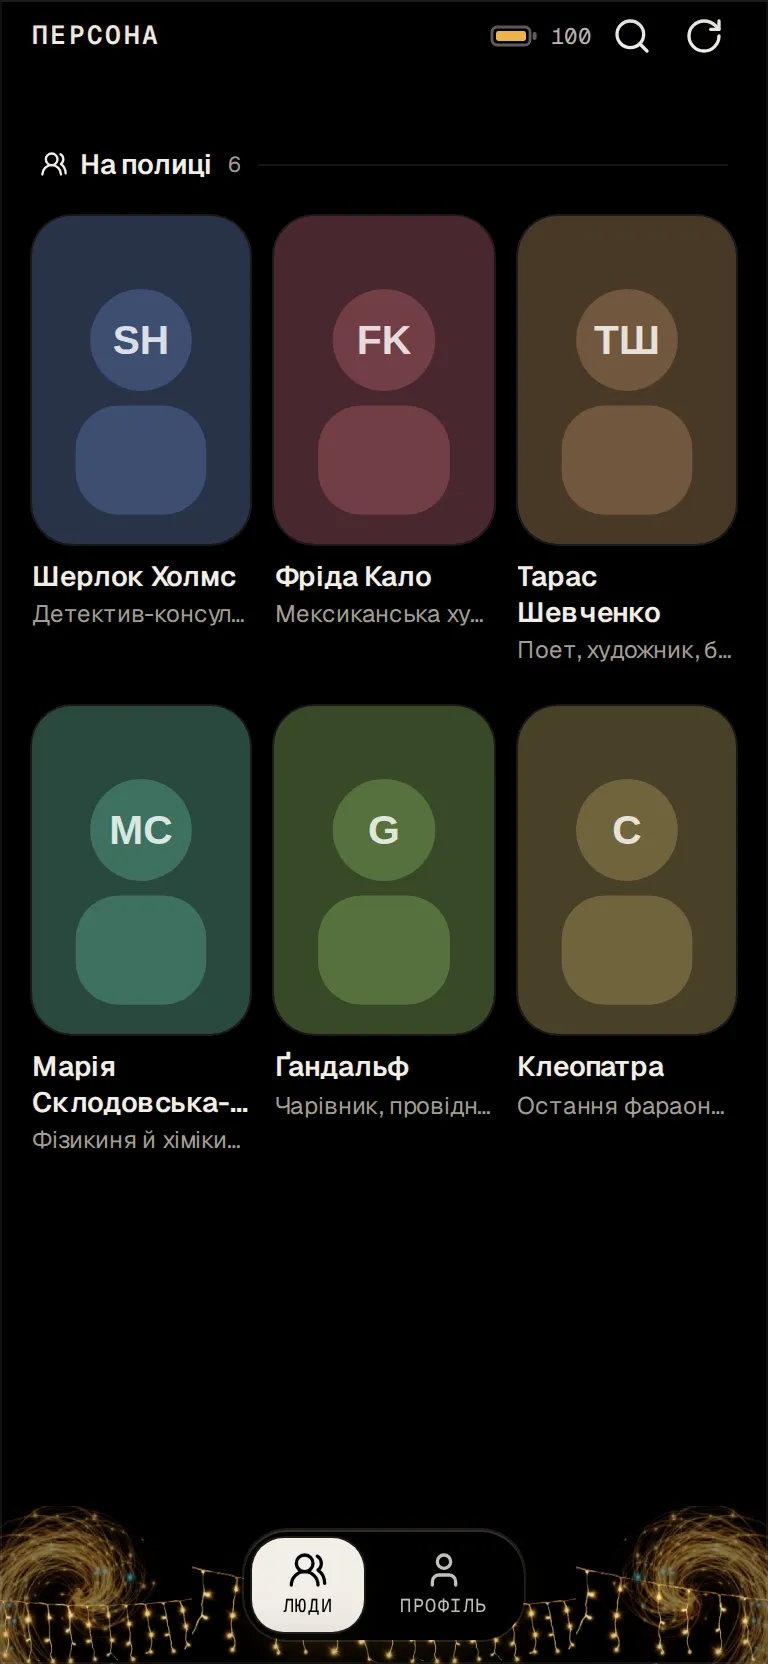
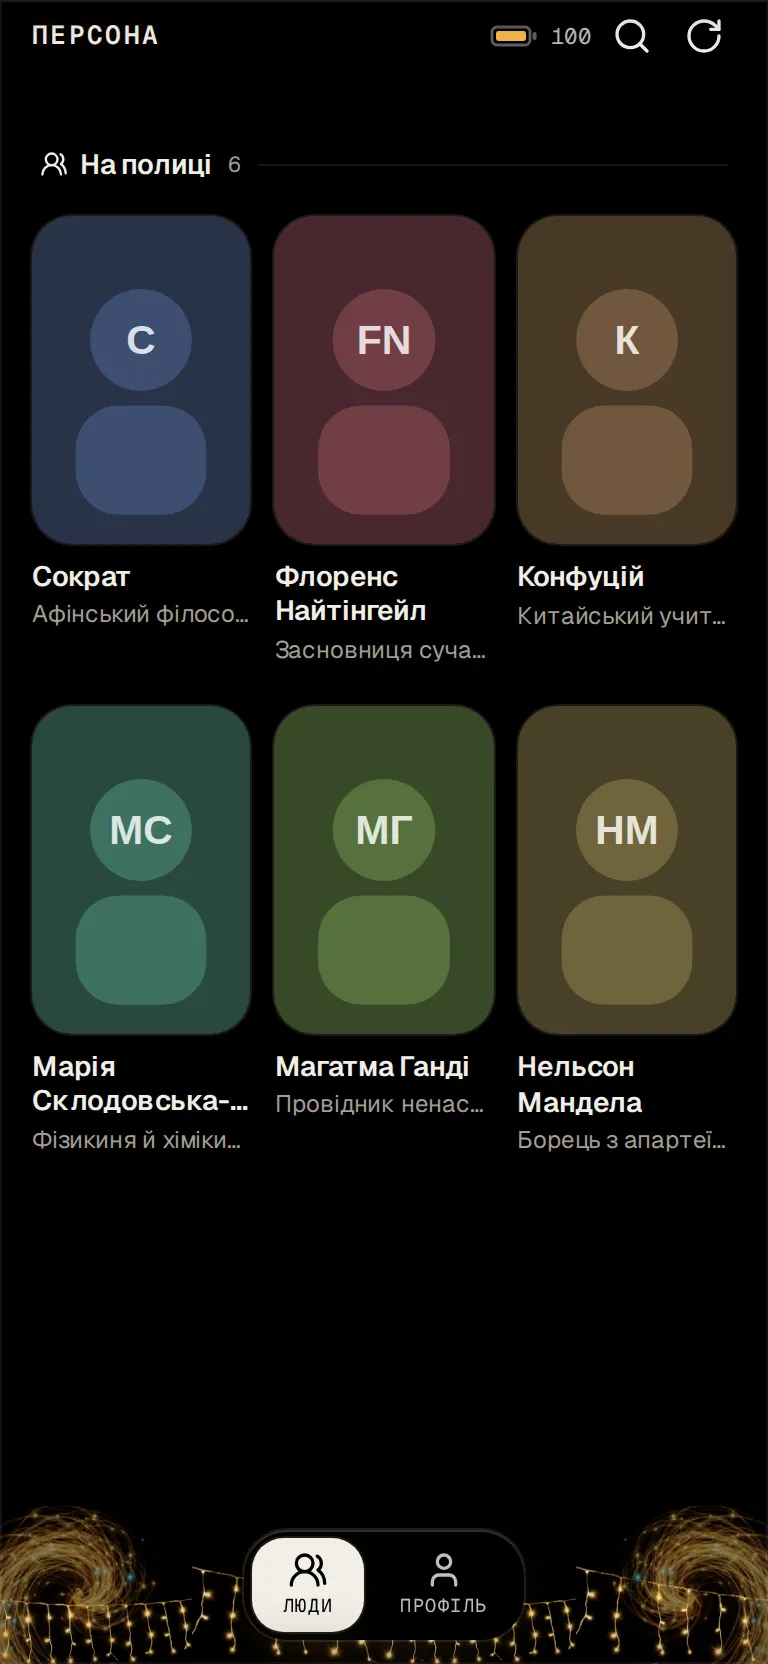
site: the landing rewritten in the reader's moments, not the farm's features
languages). Rewritten benefit-first in the second person, the way the store's best lines already speak:

- hero: , the lede three moments (songs in the metro, the weather while
  the kettle boils, a live channel from the other side of the world); each sentence its own balanced line
- the rail is a day, : an hour (07:10 … 01:00), what happens to the reader,
  and only then the app's name, small
- shelves ; the offline fact leads with where it matters here: the metro, a
  shelter, a blackout; the end asks
- title, description, og/twitter and og.jpg follow the new voice

Also: the persona store captures retaken with the new fixture shelf (cf9f604).

diff --git a/site/index.html b/site/index.html
@@ -3,8 +3,8 @@
 <head>
 <meta charset="utf-8">
 <meta name="viewport" content="width=device-width,initial-scale=1,viewport-fit=cover">
-<title>Mriia: {{APPS}} для телефона, що працюють без інтернету</title>
-<meta name="description" content="{{LIGHT_APPS}} українською: музика, фото, наука, ефір і корисні дрібниці. Ставляться на телефон в один дотик і відкриваються без інтернету.">
+<title>Mriia: {{APPS}} українською для телефона, що працюють без мережі</title>
+<meta name="description" content="Музика, що грає без інтернету, погода й повітря зранку, прямий ефір з усього світу ввечері. {{LIGHT_APPS}} українською, які ставляться на телефон одним дотиком.">
 <meta name="robots" content="index,follow,max-image-preview:large">
 <link rel="canonical" href="https://mriia.si/">
 <meta name="theme-color" content="#000000" media="(prefers-color-scheme: dark)">
@@ -13,15 +13,15 @@
 <meta property="og:site_name" content="Mriia">
 <meta property="og:locale" content="uk_UA">
 <meta property="og:url" content="https://mriia.si/">
-<meta property="og:title" content="Mriia: застосунки, що живуть у твоєму телефоні">
-<meta property="og:description" content="{{LIGHT_APPS}} українською. Ставляться в один дотик і відкриваються без інтернету.">
+<meta property="og:title" content="Mriia: усе для твого дня, навіть без мережі">
+<meta property="og:description" content="Пісні, що грають у метро, погода зранку, ефір з усього світу ввечері. {{LIGHT_APPS}} українською.">
 <meta property="og:image" content="https://mriia.si/og.jpg">
 <meta property="og:image:width" content="1200">
 <meta property="og:image:height" content="630">
 <meta property="og:image:alt" content="Mriia: екрани застосунків на телефоні">
 <meta name="twitter:card" content="summary_large_image">
-<meta name="twitter:title" content="Mriia: застосунки, що живуть у твоєму телефоні">
-<meta name="twitter:description" content="{{LIGHT_APPS}} українською. Ставляться в один дотик і відкриваються без інтернету.">
+<meta name="twitter:title" content="Mriia: усе для твого дня, навіть без мережі">
+<meta name="twitter:description" content="Пісні, що грають у метро, погода зранку, ефір з усього світу ввечері. {{LIGHT_APPS}} українською.">
 <meta name="twitter:image" content="https://mriia.si/og.jpg">
 <link rel="icon" href="/store/icon.svg" type="image/svg+xml">
 <link rel="apple-touch-icon" href="/store/icons/apple-touch-icon.png">
@@ -74,6 +74,8 @@ img { display: block; max-width: 100%; height: auto; }
 .hero .wrap { display: grid; gap: clamp(2.5rem, 6vw, 4rem); align-items: center; }
 @media (min-width: 900px) { .hero .wrap { grid-template-columns: 1.08fr .92fr; } }
 h1 { margin: 0; font-weight: 640; font-size: clamp(2.5rem, 6.4vw, 4.75rem); line-height: 1.02; letter-spacing: -.035em; text-wrap: balance; }
+
+h1 .ln { display: block; text-wrap: balance; }
 h1 .lit { color: var(--mark); }
 .lede { margin: 1.4rem 0 2.1rem; max-width: 34rem; font-size: clamp(1.06rem, 1.6vw, 1.22rem); color: var(--muted); text-wrap: pretty; }
 .phones { position: relative; height: clamp(440px, 62vw, 620px); }
@@ -96,10 +98,11 @@ h2 { margin: 0 0 2.2rem; font-weight: 620; font-size: clamp(1.85rem, 4vw, 3rem);
 .app { scroll-snap-align: start; text-decoration: none; display: grid; gap: .9rem; }
 .app .phone { position: relative; width: 100%; transform: none; transition: transform .35s var(--ease), box-shadow .35s var(--ease); }
 .app:hover .phone { transform: translateY(-4px); box-shadow: 0 0 0 1px color-mix(in oklch, var(--mark) 55%, transparent), 0 24px 60px -24px var(--bloom); }
-.app .who { display: flex; align-items: center; gap: .7rem; }
-.app .who img { width: 40px; height: 40px; border-radius: 12px; }
-.app b { display: block; font-weight: 600; }
-.app span { display: block; font-size: .92rem; color: var(--muted); line-height: 1.35; }
+
+.app .when { display: block; font-size: .78rem; letter-spacing: .08em; color: var(--mark); }
+.app .moment p { margin: .35rem 0 .7rem; font-size: 1.02rem; font-weight: 520; line-height: 1.4; color: var(--ink); text-wrap: pretty; }
+.app .who { display: flex; align-items: center; gap: .5rem; font-size: .88rem; color: var(--muted); }
+.app .who img { width: 24px; height: 24px; border-radius: 7px; }
 
 
 .bento { display: grid; gap: .85rem; grid-template-columns: repeat(2, 1fr); }
@@ -166,8 +169,8 @@ footer a:hover { color: var(--ink); }
 <main>
 <section class="hero" aria-labelledby="h-hero"><div class="wrap">
   <div>
-    <h1 id="h-hero" class="rise">Застосунки, що живуть у <span class="lit">твоєму телефоні</span></h1>
-    <p class="lede rise" style="--d:80ms">{{LIGHT_APPS}} українською: музика, фото, наука, ефір і корисні дрібниці. Ставляться в один дотик і відкриваються без інтернету.</p>
+    <h1 id="h-hero" class="rise"><span class="ln">Усе для твого дня.</span> <span class="ln lit">Навіть без мережі.</span></h1>
+    <p class="lede rise" style="--d:80ms">Пісні, що грають у метро. Погода, поки закипає чайник. Прямий ефір з іншого кінця світу. {{LIGHT_APPS}} українською, які ставляться на телефон одним дотиком.</p>
     <a class="cta rise" style="--d:160ms" href="/store/">Відкрити каталог {{ICON arrow-right}}</a>
   </div>
   <div class="phones">
@@ -177,33 +180,33 @@ footer a:hover { color: var(--ink); }
 </div></section>
 
 <section aria-labelledby="h-rail"><div class="wrap">
-  <h2 id="h-rail" class="rise">Кожен робить одну річ і робить її добре</h2>
+  <h2 id="h-rail" class="rise">Від першої кави до останнього треку</h2>
   <div class="rail">{{RAIL}}</div>
 </div></section>
 
 <section aria-labelledby="h-shelves"><div class="wrap">
-  <h2 id="h-shelves" class="rise">{{SHELVES_N}} полиць, {{APPS}}</h2>
+  <h2 id="h-shelves" class="rise">На кожен настрій своя полиця</h2>
   <div class="bento">{{BENTO}}</div>
 </div></section>
 
 <section class="lives" aria-labelledby="h-lives"><div class="wrap">
   <div class="phone rise lives-phone">{{LIVES_IMG}}</div>
   <div>
-    <h2 id="h-lives" class="rise">Ставиться як застосунок, лишається з тобою</h2>
+    <h2 id="h-lives" class="rise">Поруч, навіть коли зникла мережа</h2>
     <div class="facts">
-      <div class="fact rise"><div class="ic" aria-hidden="true">{{ICON smartphone}}</div>
-        <div><h3>Один дотик до головного екрана</h3><p>Відкрив, натиснув «Встановити», і застосунок стоїть поруч з іншими. Без магазину і без очікування.</p></div></div>
-      <div class="fact rise" style="--d:80ms"><div class="ic" aria-hidden="true">{{ICON wifi-off}}</div>
-        <div><h3>Відкривається без інтернету</h3><p>Застосунок зберігається на телефоні, тож запускається і в метро, і в полі. Мережа потрібна лише для свіжих даних.</p></div></div>
+      <div class="fact rise"><div class="ic" aria-hidden="true">{{ICON wifi-off}}</div>
+        <div><h3>У метро, в укритті, коли вимкнули світло</h3><p>Застосунок живе в телефоні, тож відкривається завжди. Інтернет потрібен тільки для свіжого: новин, погоди, ефіру.</p></div></div>
+      <div class="fact rise" style="--d:80ms"><div class="ic" aria-hidden="true">{{ICON smartphone}}</div>
+        <div><h3>Ставиш, як звичайний застосунок</h3><p>Натиснув «Встановити», і він уже на головному екрані поруч з улюбленими. Без магазину і без очікування.</p></div></div>
       <div class="fact rise" style="--d:160ms"><div class="ic" aria-hidden="true">{{ICON languages}}</div>
-        <div><h3>Українською й англійською</h3><p>Кожен застосунок говорить обома мовами. Мова перемикається в профілі одним дотиком.</p></div></div>
+        <div><h3>Говорить українською</h3><p>Від першого екрана до останньої кнопки. А для друга з-за кордону англійська вмикається в профілі.</p></div></div>
     </div>
   </div>
 </div></section>
 
 <section class="end" aria-labelledby="h-end"><div class="wrap">
   <p class="big rise" aria-hidden="true">Mriia</p>
-  <h2 id="h-end" class="rise">Обери свій перший застосунок</h2>
+  <h2 id="h-end" class="rise">З чого почнеш свій день?</h2>
   <a class="cta rise" href="/store/">Відкрити каталог {{ICON arrow-right}}</a>
 </div></section>
 </main>

diff --git a/site/og.html b/site/og.html
@@ -8,7 +8,7 @@
   .glow { position: absolute; right: -60px; top: 40px; width: 760px; height: 600px; background: radial-gradient(closest-side, rgb(242 184 75 / .32), transparent 70%), radial-gradient(closest-side at 75% 80%, rgb(92 228 220 / .2), transparent 70%); filter: blur(30px); }
   .copy { position: absolute; left: 72px; top: 92px; width: 560px; }
   .mark { font-weight: 650; font-size: 34px; letter-spacing: -.02em; }
-  h1 { margin: 64px 0 0; font-weight: 640; font-size: 66px; line-height: 1.02; letter-spacing: -.035em; }
+  h1 { margin: 64px 0 0; font-weight: 640; font-size: 58px; line-height: 1.02; letter-spacing: -.035em; }
   h1 span { color: #F2B84B; }
   p { margin: 26px 0 0; font-size: 25px; color: #A39E94; line-height: 1.4; }
   .ph { position: absolute; width: 214px; height: 464px; border-radius: 34px; overflow: hidden; box-shadow: 0 0 0 1px rgb(242 238 230 / .14), 0 30px 70px -20px rgb(0 0 0 / .7); }
@@ -22,8 +22,8 @@
   <div class="glow"></div>
   <div class="copy">
     <div class="mark">Mriia</div>
-    <h1>Застосунки, що живуть у <span>твоєму телефоні</span></h1>
-    <p>{{LIGHT_APPS}} українською. Ставляться в один дотик і відкриваються без інтернету.</p>
+    <h1>Усе для твого дня.<br><span>Навіть без мережі.</span></h1>
+    <p>Пісні, що грають у метро. Погода зранку. Ефір з усього світу ввечері. {{LIGHT_APPS}} українською.</p>
   </div>
   <div class="ph a"><img src="/store/assets/shot-remix--mix.webp" alt=""></div>
   <div class="ph b"><img src="/store/assets/shot-fonoteka--songs.webp" alt=""></div>
